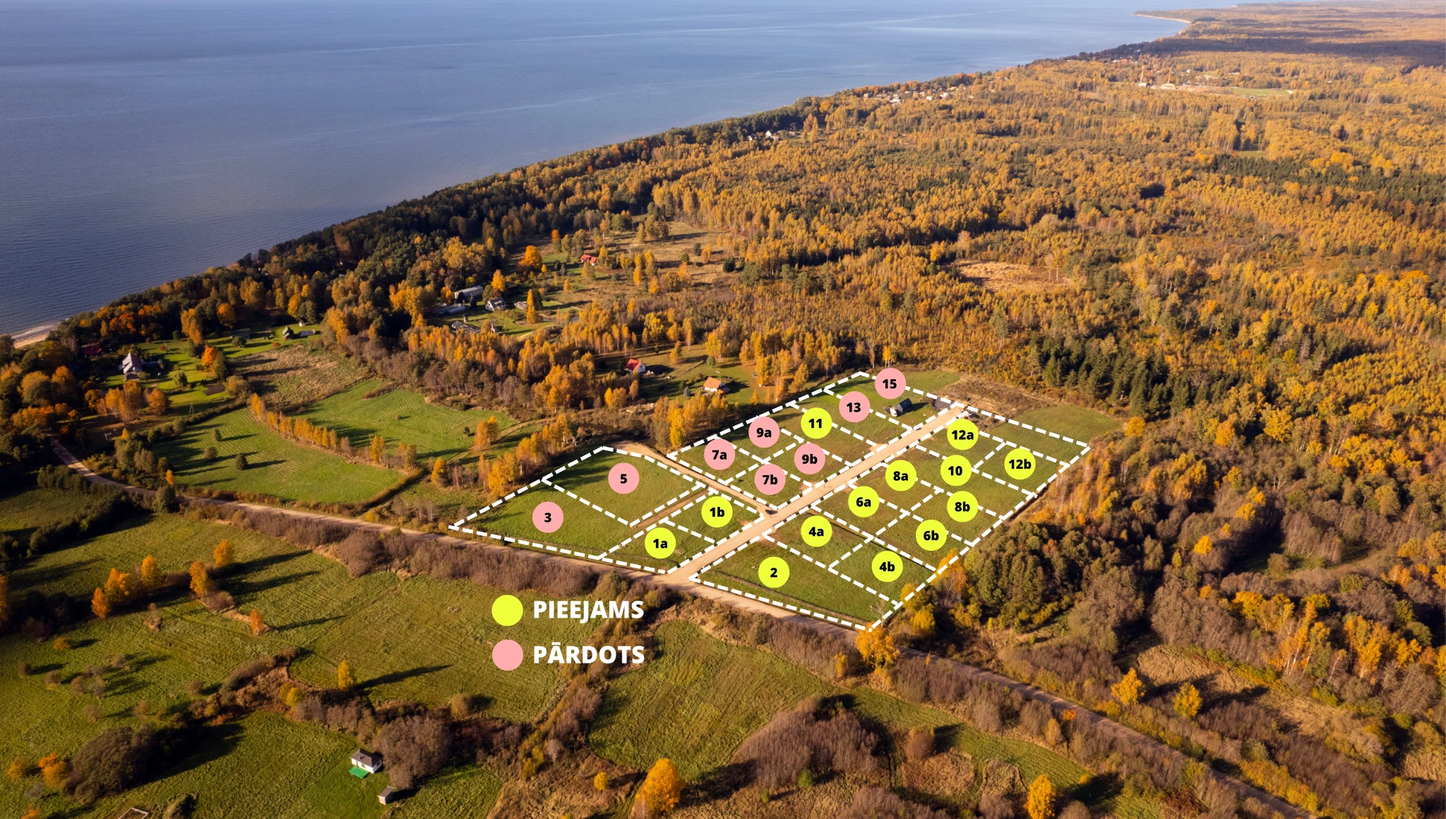
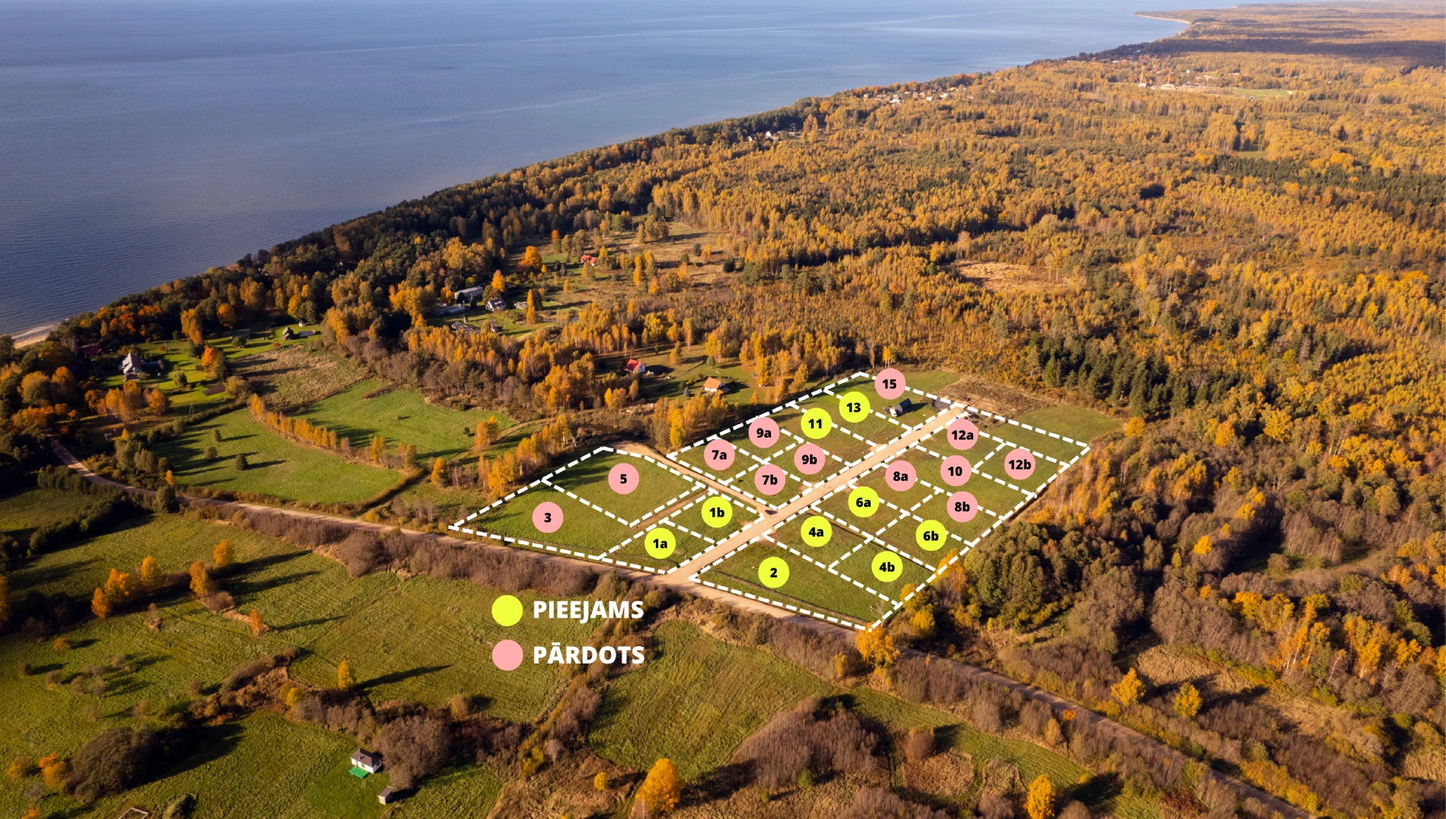
changes to the table and an image

diff --git a/index.html b/index.html
@@ -250,7 +250,7 @@
                     <td>Jūras iela 1b</td>
                     <td data-translate="table-land">Zeme</td>
                     <td>1252</td>
-                    <td>0.00</td>
+                    <td>-</td>
                     <td class="status-sold" data-translate="status-sold">Pārdots</td>
                   </tr>
                   <tr>
@@ -285,14 +285,14 @@
                     <td>Jūras iela 4a</td>
                     <td>Zeme + kanalizācija/ūdens</td>
                     <td>1180</td>
-                    <td>27140.00</td>
+                    <td>33140.00</td>
                     <td class="status-available" data-translate="status-available">Pieejams</td>
                   </tr>
                   <tr>
                     <td>Jūras iela 4b</td>
                     <td>Zeme + kanalizācija/ūdens</td>
                     <td>1320</td>
-                    <td>30360.00</td>
+                    <td>36360.00</td>
                     <td class="status-available" data-translate="status-available">Pieejams</td>
                   </tr>
                   <tr>
@@ -320,14 +320,14 @@
                     <td>Jūras iela 6a</td>
                     <td>Zeme + kanalizācija/ūdens</td>
                     <td>1193</td>
-                    <td>27439.00</td>
+                    <td>33439.00</td>
                     <td class="status-available" data-translate="status-available">Pieejams</td>
                   </tr>
                   <tr>
                     <td>Jūras iela 6b</td>
                     <td>Zeme + kanalizācija/ūdens</td>
                     <td>1298</td>
-                    <td>29854.00</td>
+                    <td>35854.00</td>
                     <td class="status-available" data-translate="status-available">Pieejams</td>
                   </tr>
                   <tr>
@@ -348,28 +348,28 @@
                     <td>Jūras iela 7a</td>
                     <td data-translate="table-land">Zeme</td>
                     <td>1257</td>
-                    <td>0.00</td>
+                    <td>-</td>
                     <td class="status-sold" data-translate="status-sold">Pārdots</td>
                   </tr>
                   <tr>
                     <td>Jūras iela 7b</td>
                     <td data-translate="table-land">Zeme</td>
                     <td>1256</td>
-                    <td>0.00</td>
+                    <td>-</td>
                     <td class="status-sold" data-translate="status-sold">Pārdots</td>
                   </tr>
                   <tr>
                     <td>Jūras iela 8</td>
                     <td data-translate="table-land">Zeme</td>
                     <td>2520</td>
-                    <td>0.00</td>
+                    <td>-</td>
                     <td class="status-sold" data-translate="status-sold">Pārdots</td>
                   </tr>
                   <tr>
                     <td>Jūras iela 9a</td>
                     <td data-translate="table-land">Zeme</td>
                     <td>1254</td>
-                    <td>0.00</td>
+                    <td>-</td>
                     <td class="status-sold" data-translate="status-sold">Pārdots</td>
                   </tr>
                   <tr>
@@ -383,8 +383,8 @@
                     <td>Jūras iela 10</td>
                     <td data-translate="table-land">Zeme</td>
                     <td>2505</td>
-                    <td>57615.00</td>
-                    <td class="status-reserved" data-translate="status-reserved">Rezervēts</td>
+                    <td>-</td>
+                    <td class="status-sold" data-translate="status-sold">Pārdots</td>
                   </tr>
                   <tr>
                     <td>Jūras iela 11</td>
@@ -404,8 +404,8 @@
                     <td>Jūras iela 12</td>
                     <td data-translate="table-land">Zeme</td>
                     <td>2684</td>
-                    <td>61732.00</td>
-                    <td class="status-reserved" data-translate="status-reserved">Rezervēts</td>
+                    <td>-</td>
+                    <td class="status-sold" data-translate="status-sold">Pārdots</td>
                   </tr>
                   <tr>
                     <td>Jūras iela 13</td>
@@ -425,7 +425,7 @@
                     <td>Jūras iela 15</td>
                     <td data-translate="table-land">Zeme</td>
                     <td>2521</td>
-                    <td>0.00</td>
+                    <td>-</td>
                     <td class="status-sold" data-translate="status-sold">Pārdots</td>
                   </tr>
                 </tbody>
